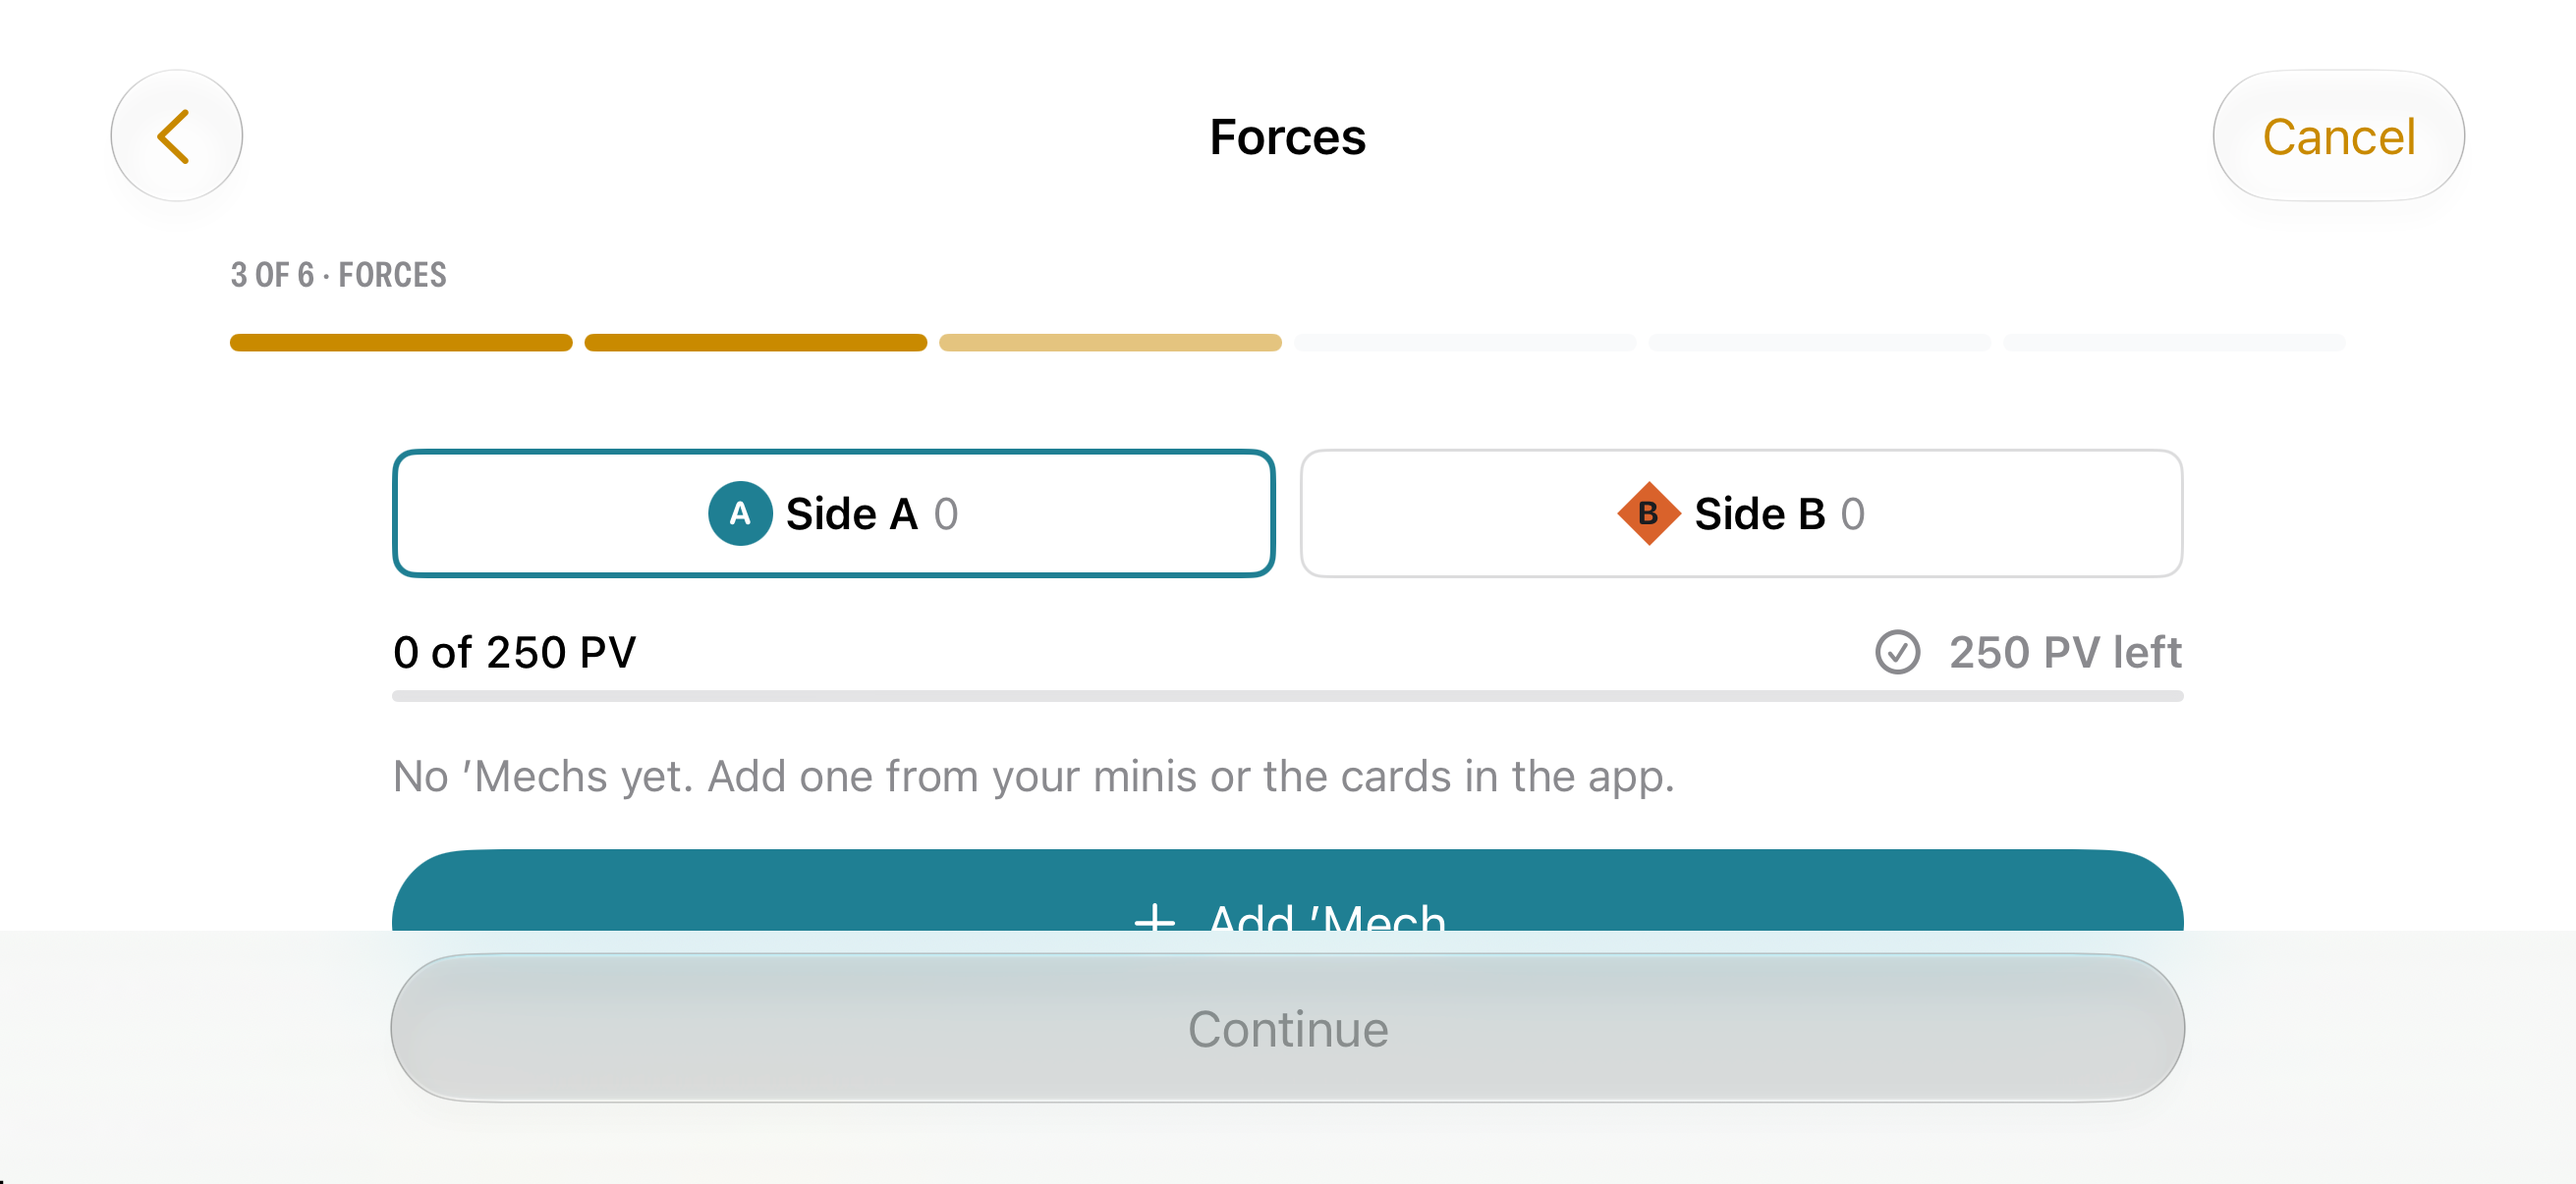
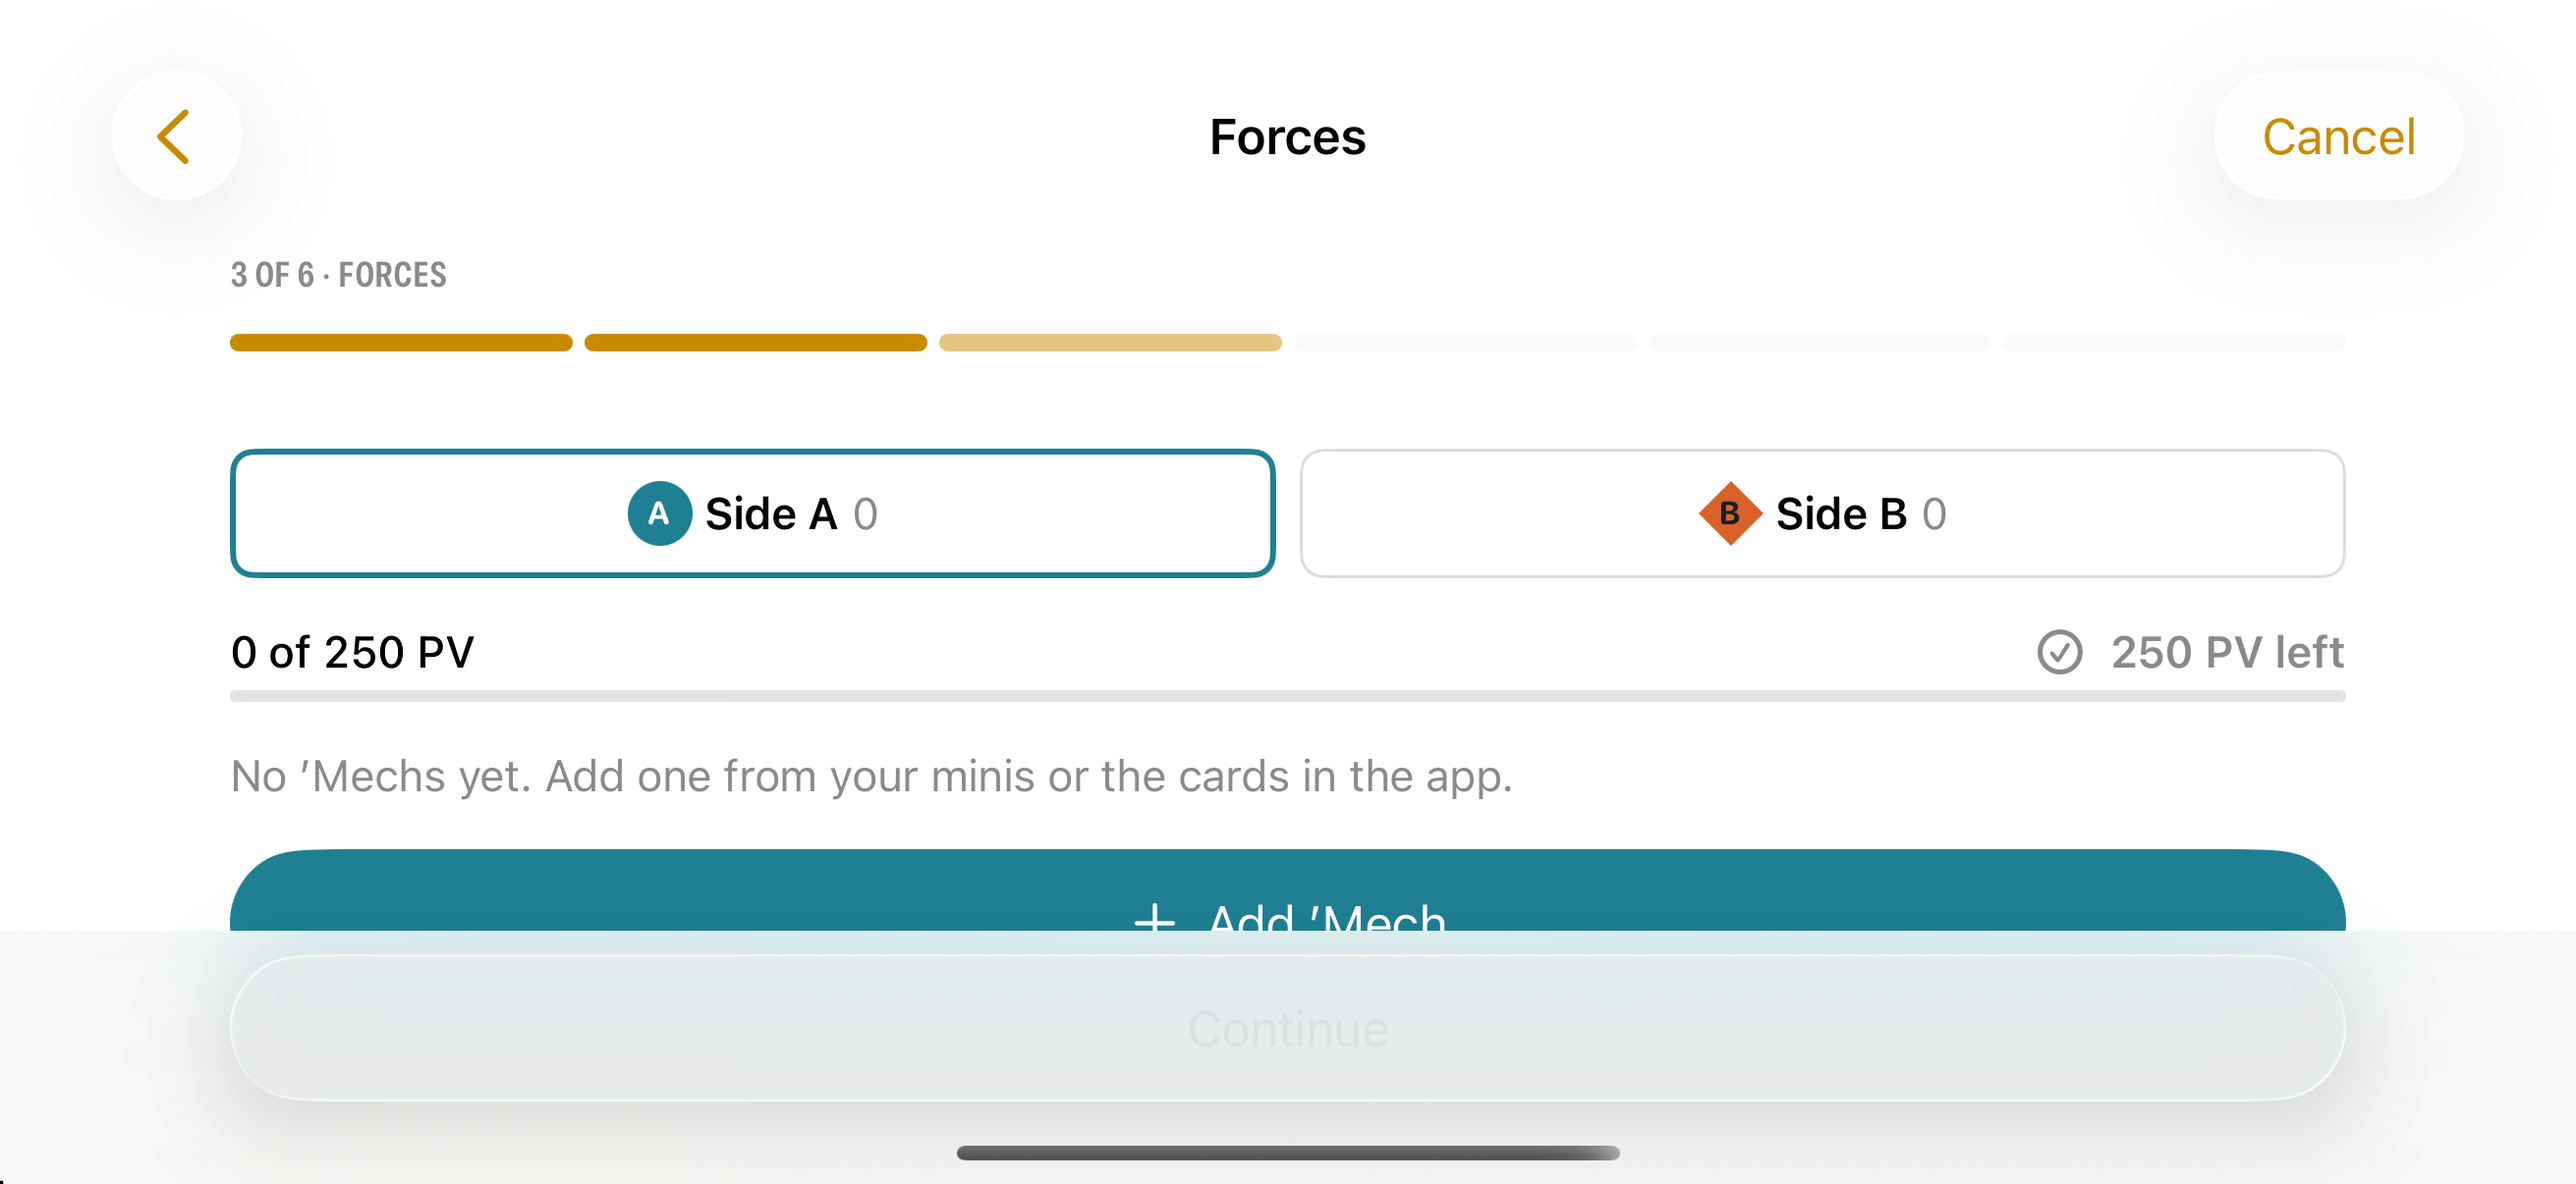
Setup: two-column Sides presets in landscape, bottom inset so the last control clears the Continue bar

diff --git a/Features/PlayMode/PlaySetupSteps.swift b/Features/PlayMode/PlaySetupSteps.swift
@@ -9,7 +9,12 @@ import MechBuddyDomain
 struct PlaySidesStep: View {
     @Binding var setup: PlaySetup
     @Environment(AppDependencies.self) private var dependencies
+    @Environment(\.verticalSizeClass) private var verticalSizeClass
+    @Environment(\.dynamicTypeSize) private var dynamicTypeSize
     @State private var showHouseRules = false
+
+    /// Landscape phone: presets go two-up so more than one and a half show above Continue.
+    private var twoColumnPresets: Bool { verticalSizeClass == .compact && !dynamicTypeSize.isAccessibilitySize }
 
     private var multiSide: Bool { dependencies.releaseSurface.isEnabled(.playModeMultiSide) }
 
@@ -19,8 +24,13 @@ struct PlaySidesStep: View {
                 Text("Who is playing?")
                     .font(TMFont.stepTitle)
                     .accessibilityAddTraits(.isHeader)
-                ForEach(TeamFormat.available(multiSide: multiSide)) { format in
-                    presetTile(format)
+                LazyVGrid(
+                    columns: Array(repeating: GridItem(.flexible(), spacing: TMSpace.sm, alignment: .top), count: twoColumnPresets ? 2 : 1),
+                    spacing: TMSpace.sm
+                ) {
+                    ForEach(TeamFormat.available(multiSide: multiSide)) { format in
+                        presetTile(format)
+                    }
                 }
                 if !multiSide {
                     Text("Three or four sides are coming in a later update.")

diff --git a/Features/PlayMode/PlaySetupFlowView.swift b/Features/PlayMode/PlaySetupFlowView.swift
@@ -47,6 +47,7 @@ struct PlaySetupFlowView: View {
     @Environment(PlayMatchCoordinator.self) private var matches
     @Environment(\.dismiss) private var dismiss
     @Environment(\.horizontalSizeClass) private var horizontalSizeClass
+    @Environment(\.verticalSizeClass) private var verticalSizeClass
 
     @State private var setup: PlaySetup
     @State private var step: PlaySetupStep
@@ -68,9 +69,10 @@ struct PlaySetupFlowView: View {
             ScrollView {
                 content
                     .padding(TMSpace.lg)
-                    .frame(maxWidth: horizontalSizeClass == .regular ? 760 : 640)
+                    .frame(maxWidth: horizontalSizeClass == .regular ? 760 : (verticalSizeClass == .compact ? 820 : 640))
                     .frame(maxWidth: .infinity)
             }
+            .contentMargins(.bottom, TMSpace.lg, for: .scrollContent)
             .id(step)
             .scrollDismissesKeyboard(.interactively)
         }
@@ -180,7 +182,7 @@ struct PlaySetupFlowView: View {
         }
         .padding(.horizontal, TMSpace.lg)
         .padding(.vertical, TMSpace.sm)
-        .frame(maxWidth: 640)
+        .frame(maxWidth: verticalSizeClass == .compact ? 820 : 640)
         .frame(maxWidth: .infinity)
         .background(.bar)
     }
